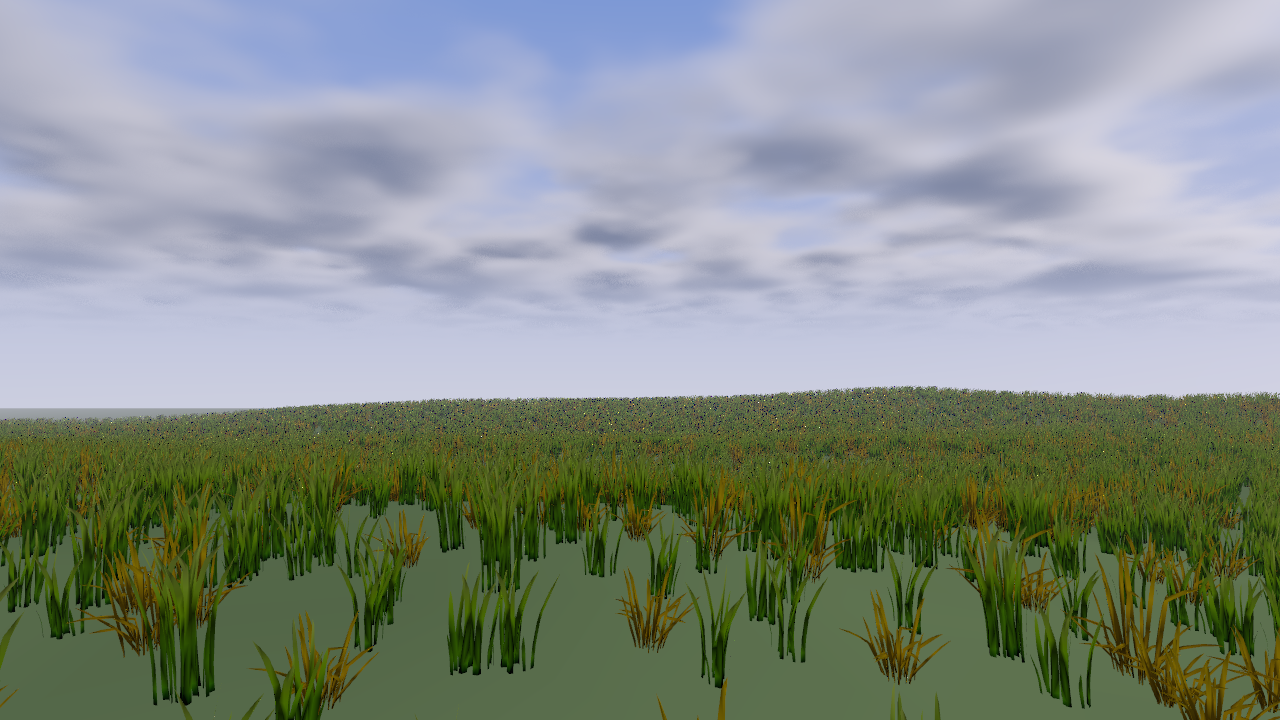
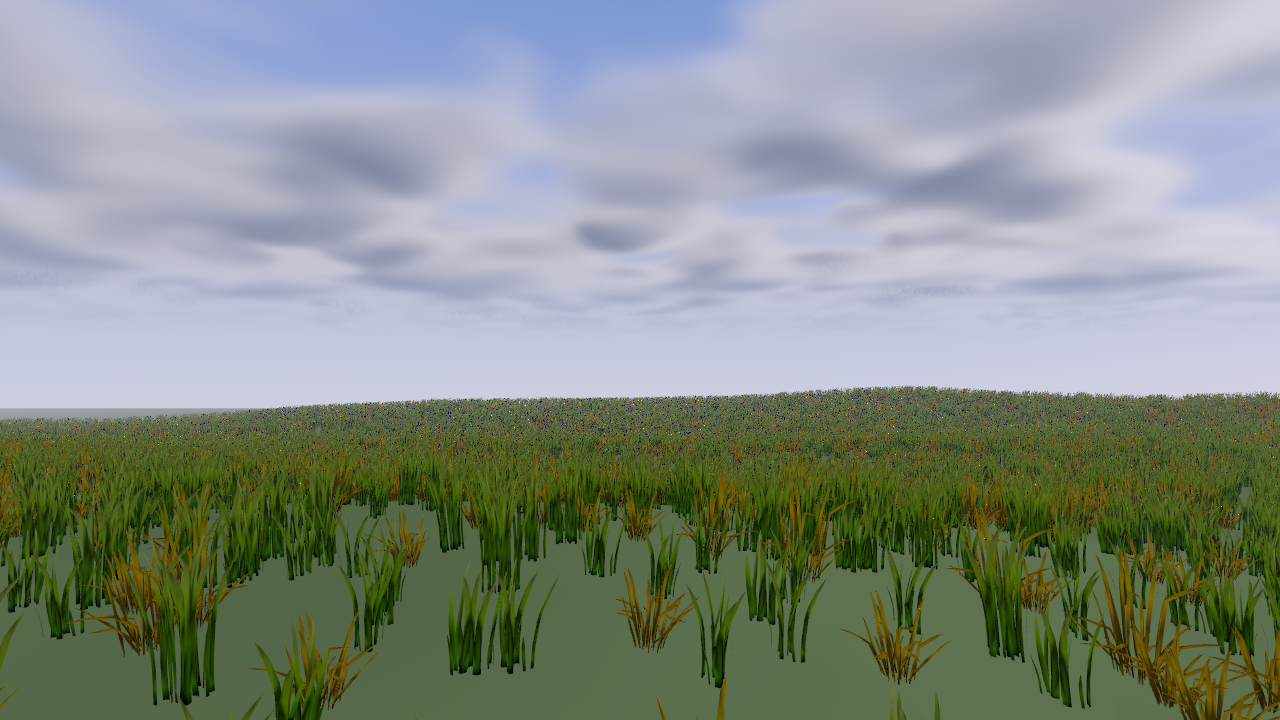
Document the cloud subsystem and refresh the screenshots
The clouds had no capability page despite being the most expensive thing
the renderer draws and having been substantially rearchitected: half
resolution in their own pass, temporally accumulated, with three separate
noise fixes.

The page leads with the measurement that matters, because it has already
misled someone once: the sky pass is 1.146 ms with the march and 0.008 ms
without, so over 99 percent of "the sky is the top GPU pass" is the
raymarch and the dome is free. It also records the two noise fixes that
look wrong until you understand them -- octaves faded by Nyquist against
the step length, and a jitter keyed to world direction rather than screen
position -- and states plainly that turning the jitter down is not the
answer, since that was tried and is worse in both directions.

Screenshots regenerated: half-resolution clouds and the night rebalance
moved every outdoor scene.

diff --git a/docs/agents/clouds.md b/docs/agents/clouds.md
@@ -1,0 +1,163 @@
+---
+id: clouds
+title: Volumetric clouds
+summary: >
+  A raymarched cloud slab rendered at half resolution and accumulated across
+  frames. It is the single most expensive thing the renderer draws, and the
+  knobs that control it are not the ones you would guess.
+capability: environment
+status: stable
+since: v0.4.0
+api:
+  - glyphengine.Sky.CloudSteps
+  - glyphengine.CloudsOff
+  - glyphengine.CloudsLow
+  - glyphengine.CloudsHigh
+assets: none
+example: examples/09-water
+run: go run ./09-water -clouds 32
+verified: 2026-08-04
+---
+
+# Volumetric clouds
+
+```go
+env := glyph.DefaultEnvironment()
+env.Sky.CloudSteps = glyph.CloudsHigh // or CloudsLow, or CloudsOff
+scene.Env = env
+```
+
+Three presets, and the count is the raymarch's sample count along each view ray.
+`CloudsOff` is 0 and skips the layer entirely — the sky keeps its gradient and
+sun glow.
+
+## This is where the frame's time goes
+
+Not the sky dome. Measured on `09-water`, sky pass total:
+
+| | cost |
+| --- | --- |
+| clouds on, 32 steps | 1.146 ms |
+| clouds off | **0.008 ms** |
+
+Over **99 percent** of "the sky is the top GPU pass" is this march. The dome —
+gradient, sun glow, horizon falloff, the whole analytic sky — is free by
+comparison.
+
+This is worth stating plainly because it has already misled someone once. A
+Hillaire-style LUT atmosphere was built on the assumption that replacing the
+dome would make the sky cheaper, and it changed the sky pass from 0.917 ms to
+0.918 ms. **If you want the sky cheaper, the march is the only thing that
+matters.** One command tells you the split: `-clouds 0`.
+
+## Architecture
+
+The march runs in its **own pass at half resolution**, writing in-scattered
+radiance to rgb and transmittance to alpha. `sky.frag` composites it over the
+dome as a premultiplied over.
+
+Half resolution is where the win is — GPU totals went water 1.399 → 0.688 ms,
+terrain 1.296 → 0.591 ms, kitchensink 3.515 → 3.131 ms. And it is invisible:
+sky-region RMS between full and half resolution is 0.00079 against a
+run-to-run noise floor of 0.00067 on the same view, max difference 2 in 255.
+Clouds are soft, so a bilinear upscale blurs nothing that was sharp.
+
+The result is then **accumulated across frames**, each one blending with the
+previous reprojected through the previous view-projection. The march jitters
+every ray's start, so a single frame is a noisy sample; averaging converges it.
+
+## Three noise fixes, and why the obvious one is wrong
+
+The march produces grain. Measured over the night sky band against a clouds-off
+floor of 0.000054:
+
+| | grain |
+| --- | --- |
+| original | 0.001374 |
+| + Nyquist octave fading | 0.000994 |
+| + world-anchored jitter | 0.000856 |
+| + half res and temporal accumulation | **0.000741** |
+
+**Do not fix this by turning the jitter down.** Removing it entirely gives the
+best static number and brings back visible horizontal banding at the horizon; a
+partial amplitude is worse than either, because the residual banding beats
+against the hash into a structured dither that reads worse than smooth grain.
+
+**Octaves fade by Nyquist.** The finest fbm octave has features about 113 world
+units across and a step covers 30 to 170 units at ordinary elevations, so that
+octave sat at or under the sample spacing and could only alias. `fbm3DDetail`
+drops octaves the step length cannot resolve, renormalised by the amplitude
+actually used so coverage does not shift with them.
+
+**The jitter is keyed to world direction, not screen position.** It was
+`hash2D(fragUV)`, which nails the noise pattern to the display: turn the camera
+and the clouds slide through a stationary field, which reads as a Photoshop
+add-noise filter rather than as grain. `hash3D(dir * 4096)` gives a patch of sky
+its own jitter so the noise travels with the cloud. This one is invisible in any
+still frame and obvious the moment the camera moves.
+
+## Temporal accumulation
+
+Reprojection uses the **middle of the marched slab** as a stand-in for where the
+cloud is, taken from the geometry rather than a constant — a grazing ray crosses
+the slab tens of kilometres out while an overhead one crosses it in hundreds of
+units. Clouds are far enough away that one frame of camera translation is well
+under a half-resolution texel, so rotation is the motion that matters and this
+handles it exactly.
+
+Two guards stop it ghosting:
+
+- **History off screen last frame is rejected.** There is nothing behind the
+  edge to blend with, and sampling the clamped edge smears it inward.
+- **History is clamped to the current frame's neighbourhood.** The clouds drift
+  under wind so history is always slightly stale; clamping keeps convergence
+  where the signal is stable and discards it where the picture is genuinely
+  changing.
+
+Cost is free within noise — the history fetches hide behind the march's ALU
+work.
+
+**The history chain is indexed by a frame counter, not the swapchain image
+index.** The presentation engine may hand indices back in any order, and history
+has to be strictly the previous frame. It needs `maxFramesInFlight + 1` buffers;
+two would let a frame overwrite a buffer another frame in flight is still
+sampling.
+
+## Failure mode: a pass that sometimes does not run
+
+The cloud pass runs **every frame**, even with `CloudsOff`. A pass that
+sometimes does not run leaves its target in an undefined layout while the sky
+still binds it every frame, and Vulkan validates a descriptor's declared layout
+at submit whether or not the shader samples it. With zero steps the shader
+early-outs to fully transmissive and the composite is a no-op.
+
+This rule has now caught three separate targets — the bloom chain, the cloud
+history, and a sky-view table that no longer exists. `primeSampledImages` exists
+for it.
+
+## Night lighting is an artistic floor
+
+Moonlight in the march is `(0.085, 0.10, 0.145)` against daylight's
+`(1.0, 0.97, 0.92)`. Real moonlight is roughly a **millionth** of sunlight, so
+this is not a measurement — a physically honest night sky is a black one.
+
+It was `0.55`, two thirds of daylight, which made night clouds read as white: a
+lit cloud measured 0.507 luminance at midnight against 0.811 at noon. Night now
+measures 0.161 median.
+
+If night needs rebalancing, move the sky palette, the moon boost and this
+together — darkening the sky alone leaves the moon as a hole punched in it. And
+be careful with the palette specifically: `atmSkyPalette`'s night endpoints are
+read by the dome, by the fog distant geometry fades into, and by the water's
+reflection, so lifting them to make the sky legible washes out the whole
+landscape. **Brighten the moon, not the air.**
+
+## Not done
+
+- **Step count is still 32 at `CloudsHigh`.** That number was chosen to keep
+  *single-frame* noise tolerable, and temporal accumulation removes that
+  constraint — a lower count is the next available saving.
+- **No weather map.** Coverage is a single constant, slightly heavier at night
+  so the sky is not empty.
+- **The march is not distance-adaptive.** Step length is uniform along the ray,
+  so a grazing view spends the same samples on the near slab as the far one.
